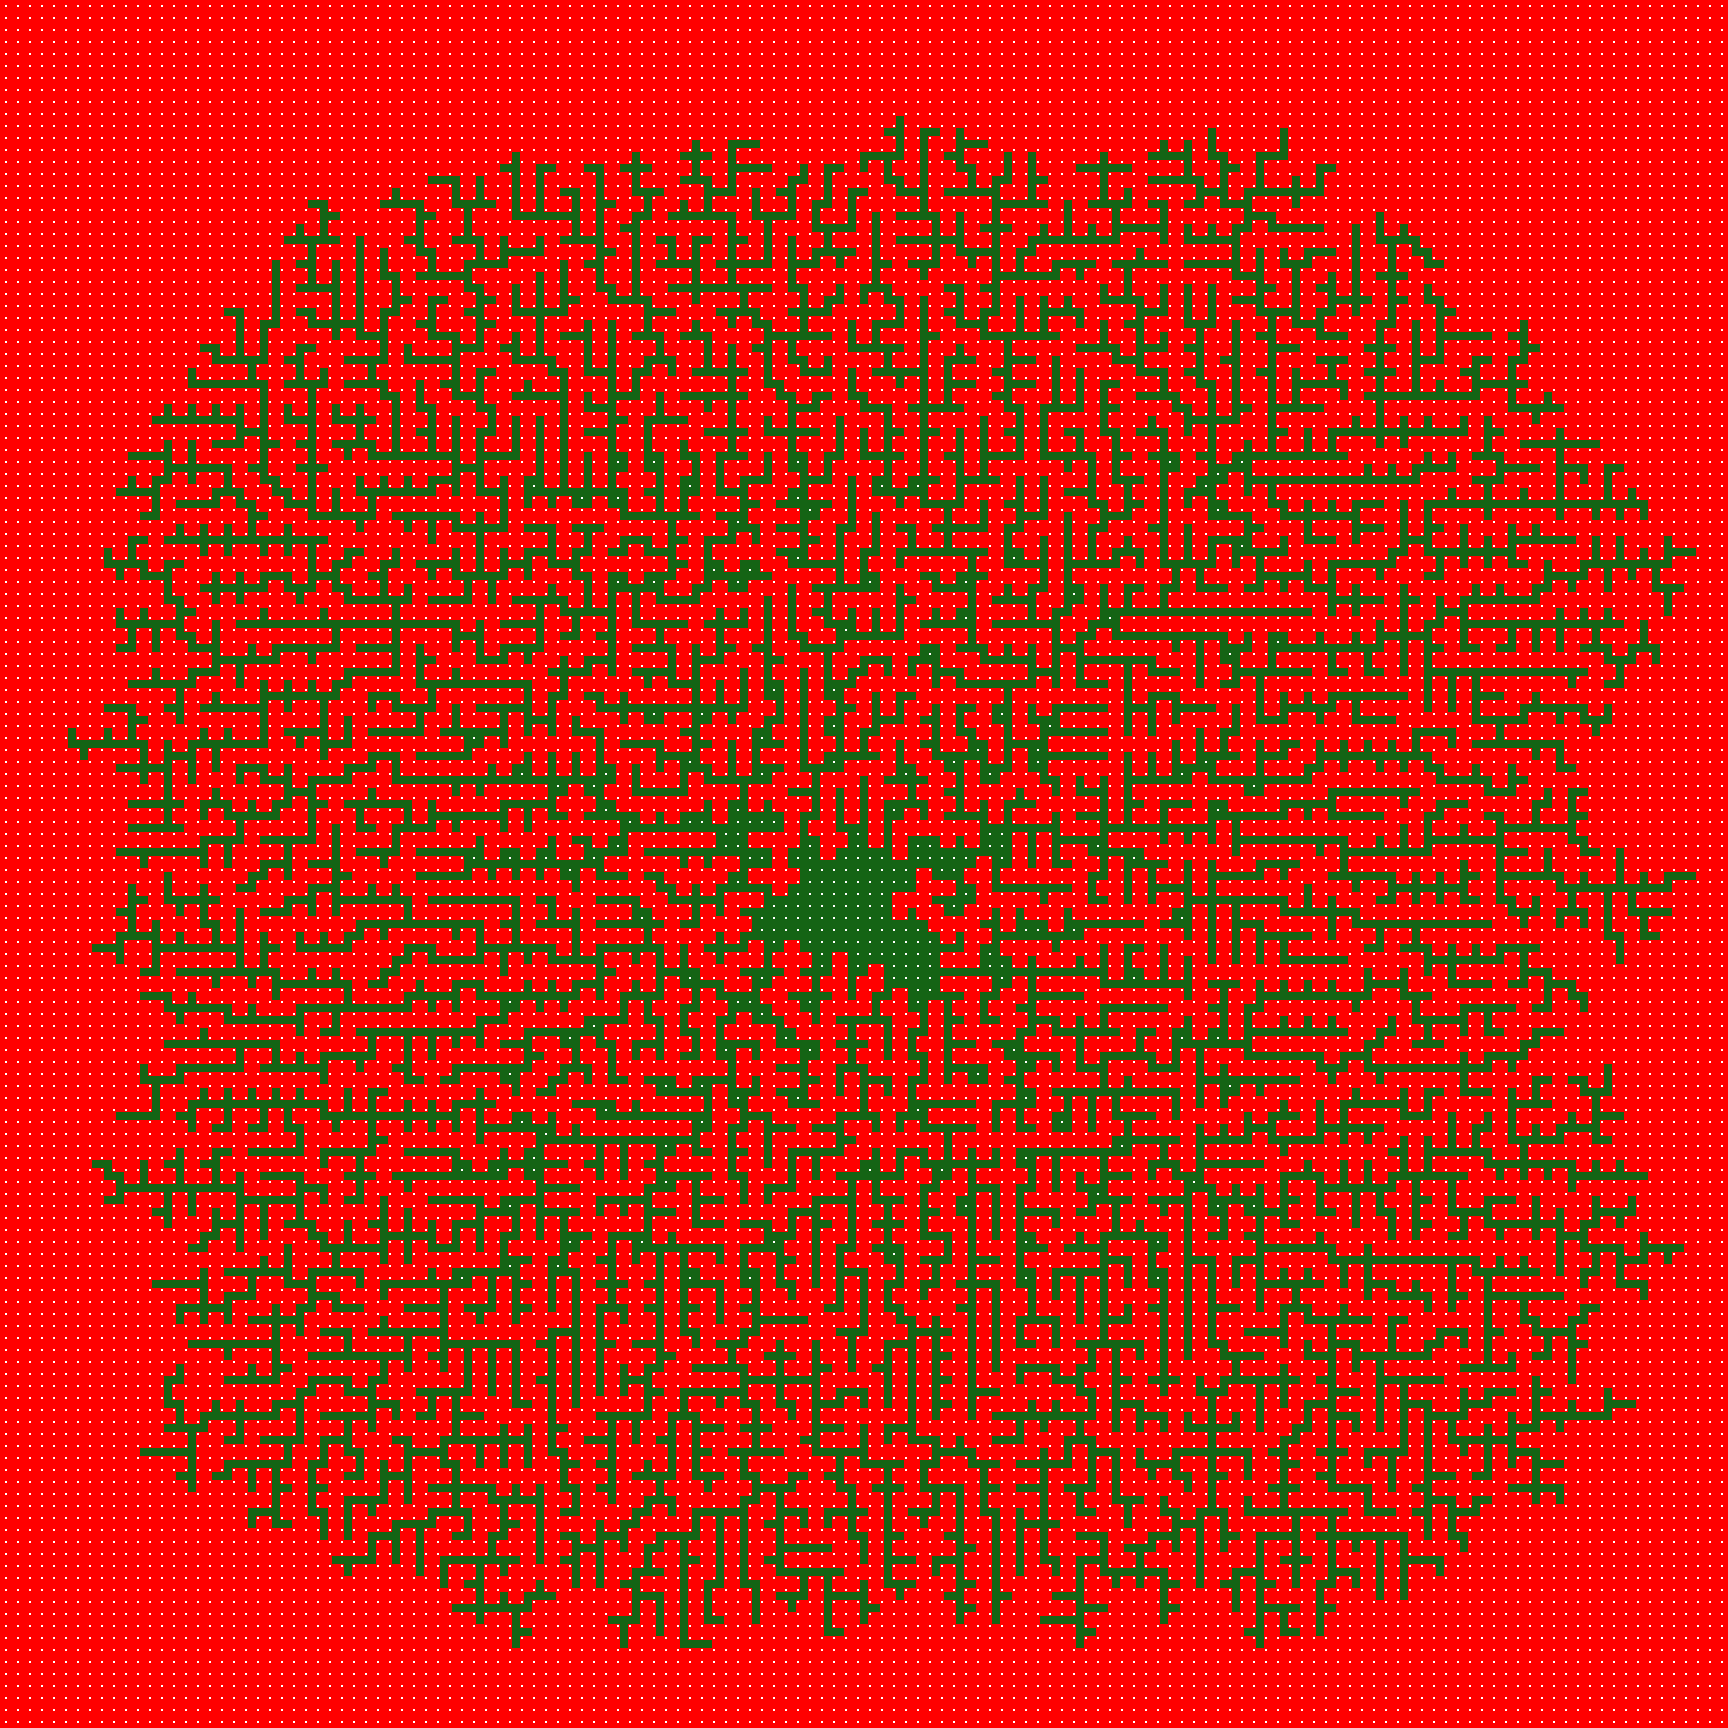
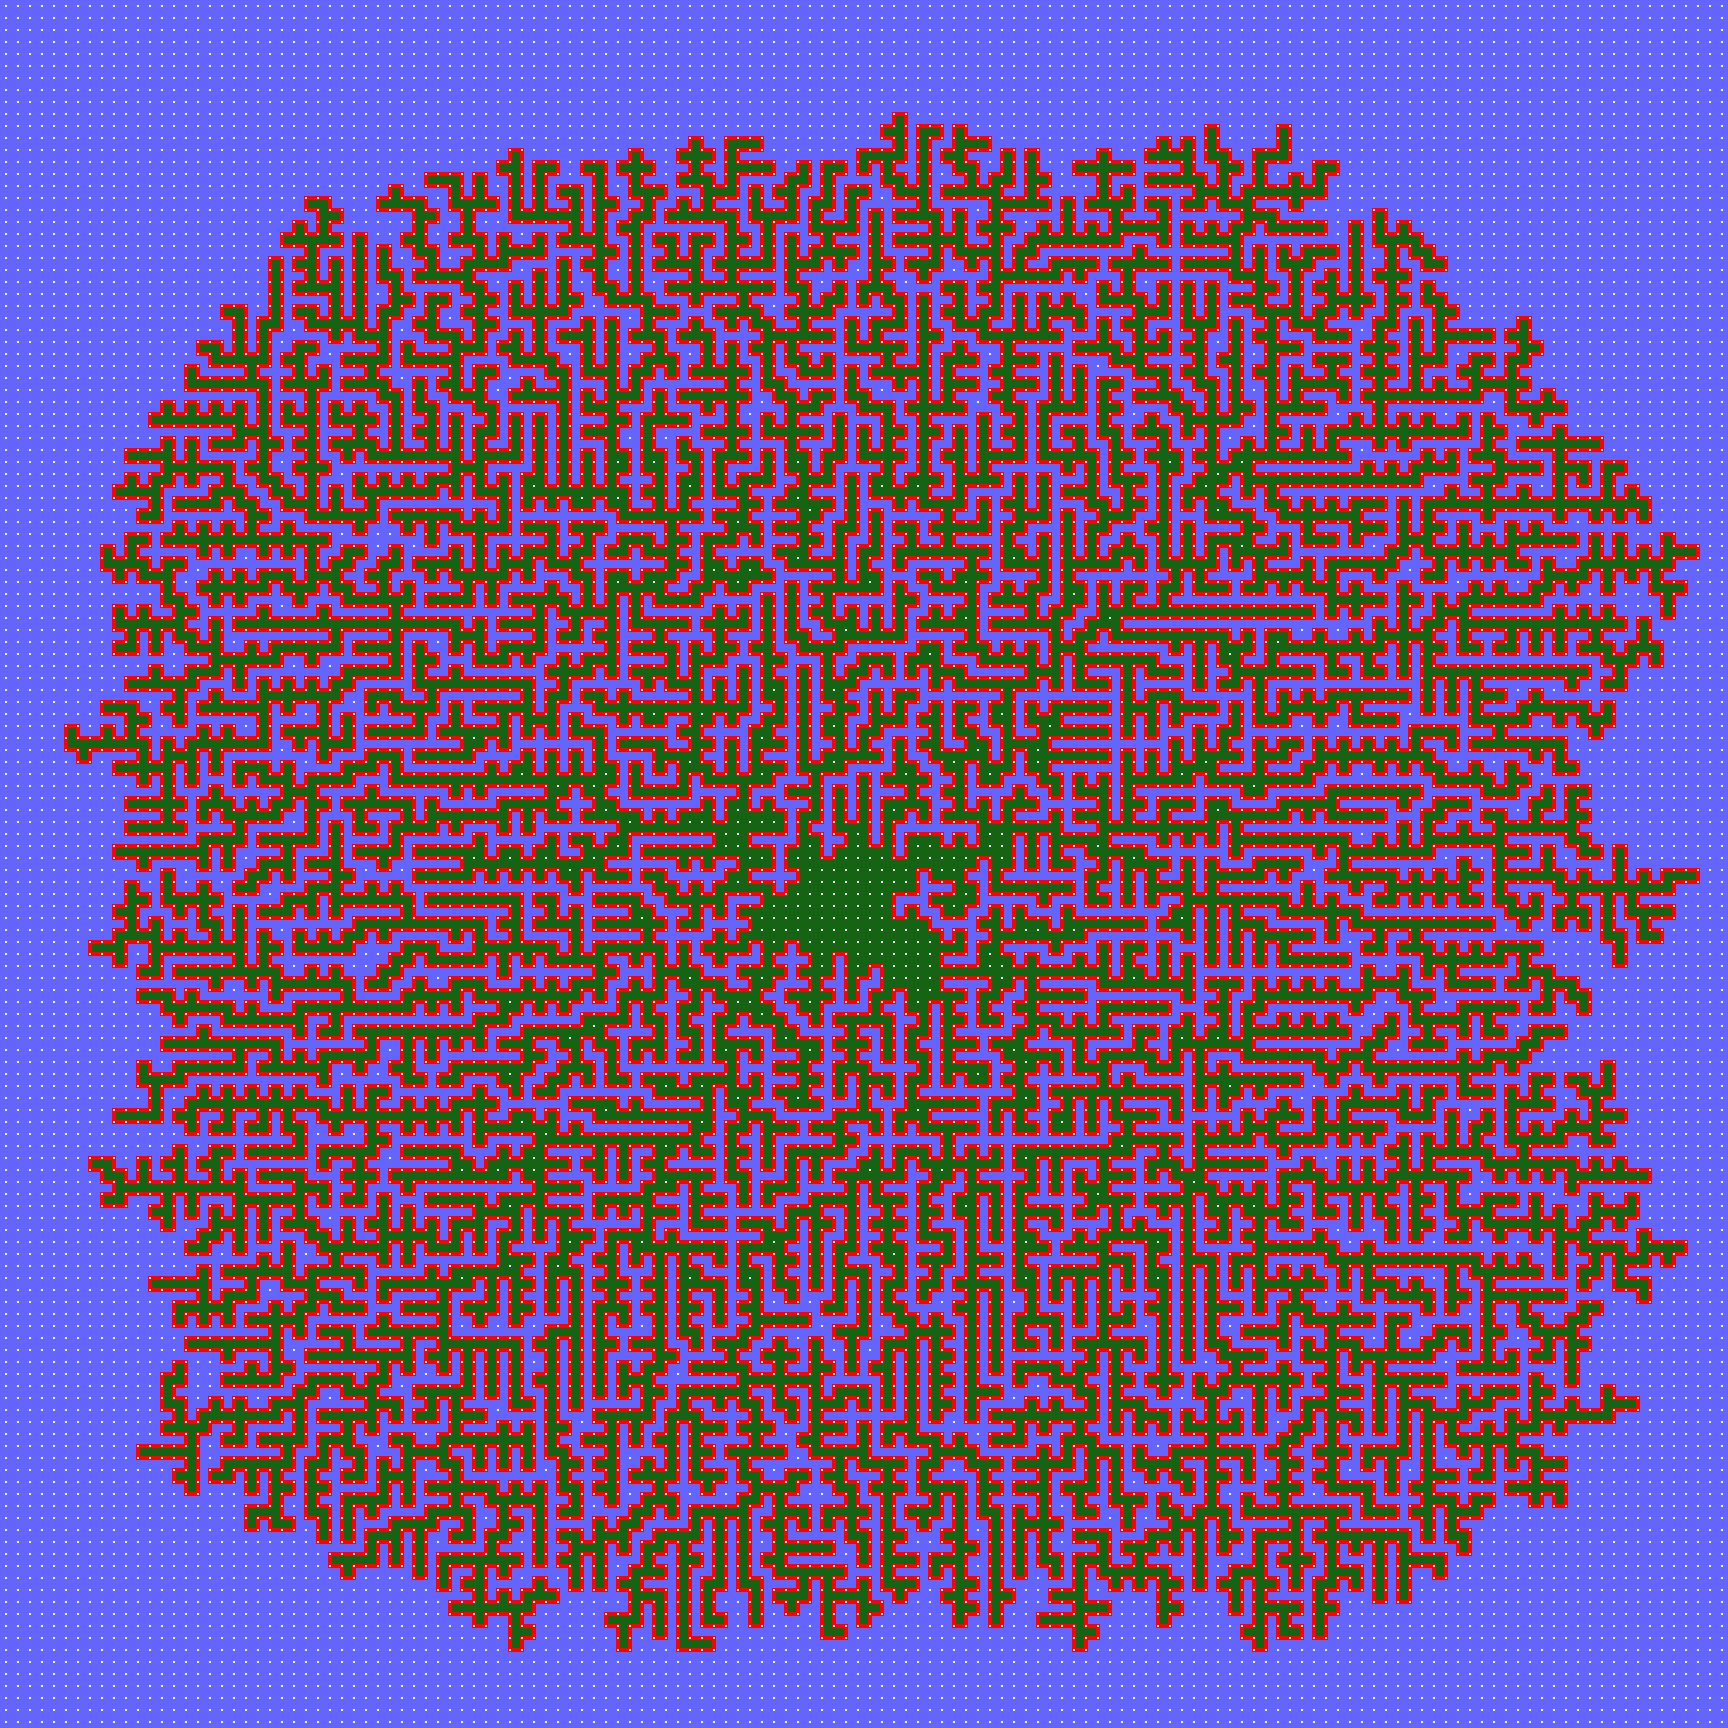
a

diff --git a/10-pipe-dream/flood-it-out.py b/10-pipe-dream/flood-it-out.py
@@ -34,6 +34,7 @@ with open("big-path.txt") as f:
 dot_color = ( 255,255,255 )
 background_color = (20,100,20)
 pipe_color = ( 255,0,0)
+flood_color = (100,100,255)
 
 def add_tup ( t1 ,t2 ):
     return ( t1[0] + t2[0] , t1[1] + t2[1])
@@ -118,7 +119,7 @@ for t in tests:
             drawing.ellipse( [tl,br] , fill=dot_color )
 
     field_img.save( f"output-{tests.index(t)}-b.png")
-    floodfill(field_img,xy=(1,1),value=pipe_color, thresh=20)
+    floodfill(field_img,xy=(1,1),value=flood_color, thresh=20)
     field_img.save( f"output-{tests.index(t)}.png")
 
     inside = 0
